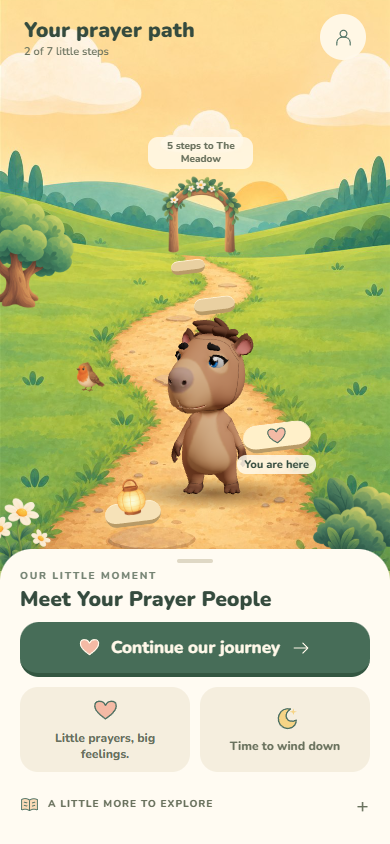
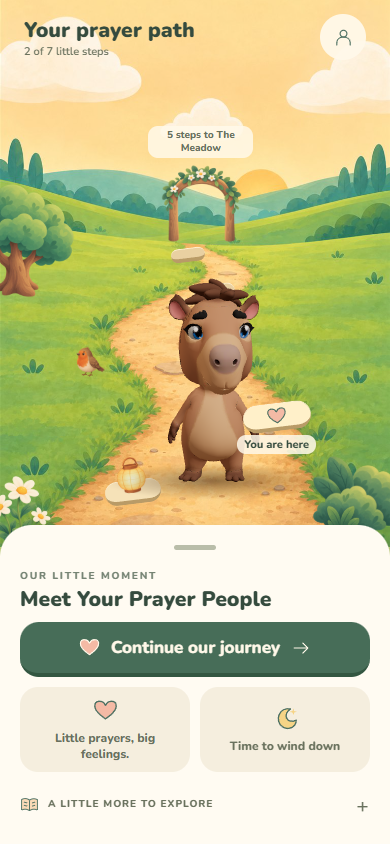
Let the trail panel collapse and remove body texture seams

Changed region(s): [[0.0, 0.0, 1.0, 0.6777], [0.0, 0.4929, 0.0308, 0.5237]]

diff --git a/apps/mobile/app/trail.tsx b/apps/mobile/app/trail.tsx
@@ -1,5 +1,5 @@
-import { useCallback, useEffect, useState } from "react";
-import { Pressable, ScrollView, StyleSheet, Text, View, useWindowDimensions, type LayoutChangeEvent } from "react-native";
+import { useCallback, useEffect, useMemo, useState } from "react";
+import { PanResponder, Pressable, ScrollView, StyleSheet, Text, View, useWindowDimensions, type LayoutChangeEvent } from "react-native";
 import { Link, Redirect, router } from "expo-router";
 import { useSafeAreaInsets } from "react-native-safe-area-context";
 import { interpolate } from "@capy/content";
@@ -38,16 +38,29 @@ function TrailLobby() {
   const { height } = useWindowDimensions();
   const [sheetHeight, setSheetHeight] = useState(290);
   const [exploring, setExploring] = useState(false);
+  const [collapsed, setCollapsed] = useState(false);
+  const sheetPan = useMemo(() => PanResponder.create({
+    onMoveShouldSetPanResponder: (_, g) => Math.abs(g.dy) > 8 && Math.abs(g.dy) > Math.abs(g.dx),
+    onPanResponderRelease: (_, g) => {
+      if (g.dy > 30) setCollapsed(true);
+      else if (g.dy < -30) setCollapsed(false);
+    },
+  }), []);
   const sceneHeight = Math.max(220, height - sheetHeight + 22);
   const onBottomLayout = useCallback((e: LayoutChangeEvent) => setSheetHeight(e.nativeEvent.layout.height), []);
   useEffect(() => {
     setStage({ sceneHeight });
-    avatar.send({ type: "viewport", top: sceneHeight * 0.51 / height, bottom: 1 - sceneHeight * 0.90 / height });
+    avatar.send({ type: "viewport", top: sceneHeight * 0.45 / height, bottom: 1 - sceneHeight * 0.92 / height });
   }, [avatar, height, sceneHeight, setStage]);
-  const view = journeyView(pack, kid.completed, { limit: PHASE_1_STOPS, windowSize: 4 });
+  const view = useMemo(() => journeyView(pack, kid.completed, { limit: PHASE_1_STOPS, windowSize: 4 }), [pack, kid.completed]);
   const curriculum = pack.lessons.filter((l) => l.routine === "any");
   const doneToday = !kid.freePlay && lessonDoneToday(kid.completed, new Set(curriculum.map((l) => l.id)));
   const world = pack.worlds.find((w) => w.id === view.next?.worldId) ?? pack.worlds[0];
+  useEffect(() => {
+    setStage({ underlay: <View style={[s.scenery, { height: sceneHeight }]} pointerEvents="none">
+      <JourneyTrail view={view} copy={copy} worldTitle={world?.title ?? ""} onContinue={() => {}} compact={sceneHeight < 400} layer="back" />
+    </View> });
+  }, [setStage, sceneHeight, view, copy, world]);
   const reduced = useReducedMotion();
   const arrival = pendingArrival(pack, kid.completed, kid.celebrated, { limit: PHASE_1_STOPS });
 
@@ -62,7 +75,7 @@ function TrailLobby() {
     avatar.send({ type: "mood", value: "calm" });
     avatar.send({ type: "walk", to: standX, from: standX }); // no distance to cover: he is placed, not walked
     avatar.send({ type: "idle" }); // greeting: facing the child, three-quarter only while he walks
-    return () => { setStage({ biome: "meadow", sceneHeight: undefined }); avatar.send({ type: "viewport", top: 0.1, bottom: 0.45 }); };
+    return () => { setStage({ biome: "meadow", sceneHeight: undefined, underlay: undefined }); avatar.send({ type: "viewport", top: 0.1, bottom: 0.45 }); };
     // eslint-disable-next-line react-hooks/exhaustive-deps
   }, [avatar]);
 
@@ -99,7 +112,7 @@ function TrailLobby() {
   return (
     <View style={s.root}>
       <View style={[s.scenery, { height: sceneHeight }]} pointerEvents="box-none">
-        <JourneyTrail view={view} copy={copy} worldTitle={world?.title ?? ""} onContinue={go} compact={sceneHeight < 400} />
+        <JourneyTrail view={view} copy={copy} worldTitle={world?.title ?? ""} onContinue={go} compact={sceneHeight < 400} layer="front" />
       </View>
       <View style={[s.top, { paddingTop: insets.top + 14 }]}>
         <View>
@@ -114,26 +127,32 @@ function TrailLobby() {
       <View style={s.stage} pointerEvents="none" />
 
       <View style={s.sheetWrap} onLayout={onBottomLayout} testID="trail-sheet">
+        <View {...sheetPan.panHandlers}>
+          <Pressable accessibilityRole="button" accessibilityLabel={collapsed ? (copy.trailExpand ?? copy.explore) : (copy.trailCollapse ?? copy.journey)} accessibilityState={{ expanded: !collapsed }} aria-expanded={!collapsed} onPress={() => setCollapsed(value => !value)} style={s.grab} testID="trail-sheet-handle">
+            <View style={s.handle} />
+          </Pressable>
+        </View>
         <ScrollView showsVerticalScrollIndicator={false} contentContainerStyle={[s.sheet, { paddingBottom: Math.max(insets.bottom, 18) }]}>
-          <View style={s.handle} />
           <Reveal>
+            {!collapsed && <>
             <Text style={s.eyebrow}>{copy.today}</Text>
             <Text style={s.title}>{!nextLesson ? copy.allDone : doneToday ? copy.completed : nextLesson.title}</Text>
+            </>}
             <Pressable onPress={go} accessibilityRole="button" style={({ pressed }) => [s.primary, pressed && s.pressed]}>
               <Icon name="heart" size={23} color="#FFF8E9" />
               <Text style={s.primaryText}>{doneToday || !nextLesson ? copy.moments : (copy.trailContinue ?? copy.start)}</Text>
               <Icon name="arrow" size={22} color="#FFF8E9" />
             </Pressable>
-            {doneToday && nextLesson ? <Text style={s.hint}>{copy.completedHint}</Text> : null}
+            {!collapsed && doneToday && nextLesson ? <Text style={s.hint}>{copy.completedHint}</Text> : null}
           </Reveal>
           {/* a quick prayer and bedtime stay one tap away, including after today's curriculum step */}
-          <Reveal delay={70}>
+          {!collapsed && <Reveal delay={70}>
             <View style={s.row}>
               <Quick icon="heart" label={copy.moments} onPress={() => router.push("/moments")} />
               <Quick icon="moon" label={copy.bedtime} onPress={() => router.push({ pathname: "/lesson/[id]", params: { id: pack.routines.bedtime.lessonId!, from: "trail" } })} />
             </View>
-          </Reveal>
-          <Reveal delay={130}>
+          </Reveal>}
+          {!collapsed && <Reveal delay={130}>
             <Pressable accessibilityRole="button" accessibilityLabel={copy.explore} accessibilityState={{ expanded: exploring }} aria-expanded={exploring} onPress={() => setExploring(value => !value)} style={s.exploreToggle}>
               <Icon name="book" size={19} /><Text style={s.exploreLabel}>{copy.explore}</Text>
               <Text style={s.chevron} accessibilityElementsHidden importantForAccessibility="no">{exploring ? "−" : "+"}</Text>
@@ -143,7 +162,7 @@ function TrailLobby() {
               <Quick icon="garden" label={copy.places} onPress={() => router.push("/places")} />
               <Quick icon="lantern" label={copy.pond} onPress={() => router.push("/pond")} />
             </View>}
-          </Reveal>
+          </Reveal>}
         </ScrollView>
       </View>
     </View>
@@ -169,7 +188,8 @@ const s = StyleSheet.create({
   stage: { flex: 1, minHeight: 170 },
   sheetWrap: { maxHeight: "52%", backgroundColor: "#FFFBF2", borderTopLeftRadius: 32, borderTopRightRadius: 32, overflow: "hidden", ...T.shadow },
   sheet: { paddingHorizontal: 20, gap: 10 },
-  handle: { width: 36, height: 4, borderRadius: 2, backgroundColor: "#DFD8C5", alignSelf: "center", marginTop: 10, marginBottom: -4 },
+  grab: { height: 44, alignItems: "center", justifyContent: "center" },
+  handle: { width: 42, height: 5, borderRadius: 3, backgroundColor: "#B9BDA9" },
   eyebrow: { fontFamily: T.font.bold, fontSize: 10, letterSpacing: 1.8, color: "#768474" },
   title: { fontFamily: T.font.black, fontSize: 21, lineHeight: 25, color: T.color.ink, marginTop: 4, marginBottom: 10 },
   primary: { minHeight: 55, borderRadius: 19, backgroundColor: "#476D58", flexDirection: "row", alignItems: "center", justifyContent: "center", gap: 10, padding: 12, borderBottomWidth: 4, borderBottomColor: "#335641" },

diff --git a/apps/mobile/src/avatar/AvatarView.web.tsx b/apps/mobile/src/avatar/AvatarView.web.tsx
@@ -1,4 +1,4 @@
-import { createContext, useCallback, useContext, useEffect, useMemo, useRef, useState, type PropsWithChildren } from "react";
+import { createContext, useCallback, useContext, useEffect, useMemo, useRef, useState, type PropsWithChildren, type ReactNode } from "react";
 import { ImageBackground, StyleSheet, View } from "react-native";
 import { AvatarEvents, type AvatarCommand, type AvatarEvent, type IAvatarRenderer } from "./IAvatarRenderer";
 import { backgroundFor, backgroundHeight } from "@/ui/backgrounds";
@@ -20,7 +20,7 @@ export function useAvatarReady() {
   useEffect(() => { setReady(avatar.ready); return avatar.onEvent(event => { if (event.type === "ready") setReady(true); }); }, [avatar]);
   return ready;
 }
-type Stage = { biome: string; dark: boolean; night: boolean; sceneHeight?: number };
+type Stage = { biome: string; dark: boolean; night: boolean; sceneHeight?: number; underlay?: ReactNode };
 const StageContext = createContext<{ stage: Stage; setStage: (stage: Partial<Stage>) => void } | null>(null);
 export function useStage() { const value = useContext(StageContext); if (!value) throw new Error("Missing AvatarProvider"); return value; }
 
@@ -41,6 +41,7 @@ export function AvatarProvider({ children }: PropsWithChildren) {
   return <AvatarContext.Provider value={renderer}><StageContext.Provider value={{ stage, setStage }}>
     <View style={StyleSheet.absoluteFill} pointerEvents="none"><ImageBackground source={backgroundFor(stage.biome, stage.night)} style={{ flex: 1, backgroundColor: stage.night ? "#34625F" : "#BDCE7D" }} imageStyle={{ width: "100%", height: stage.sceneHeight ?? backgroundHeight(stage.biome) }} resizeMode="cover">
       {stage.night && stage.biome !== "meadow" && <View style={[StyleSheet.absoluteFill, { backgroundColor: "#14205073" }]} />}
+      {stage.underlay}
       <iframe ref={frame} src="/avatar/index.html" title={getPack().companion.ui.brand} tabIndex={-1} aria-hidden="true" style={{ position: "absolute", inset: 0, width: "100%", height: "100%", border: 0, pointerEvents: "none" }} />
       {stage.dark && <View style={[StyleSheet.absoluteFill, { backgroundColor: "#0A081ED9" }]} />}
     </ImageBackground></View>{children}

diff --git a/apps/mobile/src/ui/JourneyTrail.tsx b/apps/mobile/src/ui/JourneyTrail.tsx
@@ -40,11 +40,12 @@ const spot = (i: number, n: number) => {
   };
 };
 
-export function JourneyTrail({ view, copy, worldTitle, onContinue, compact = false }: { view: JourneyView; copy: Copy; worldTitle: string; onContinue: () => void; compact?: boolean }) {
+export function JourneyTrail({ view, copy, worldTitle, onContinue, compact = false, layer = "all" }: { view: JourneyView; copy: Copy; worldTitle: string; onContinue: () => void; compact?: boolean; layer?: "all" | "back" | "front" }) {
   const reduced = useReducedMotion();
   const stones = view.window;
   return (
-    <View style={s.root} pointerEvents="box-none" testID="trail-scenery">
+    <View style={s.root} pointerEvents="box-none" testID={layer === "back" ? "trail-underlay" : "trail-scenery"}>
+      {layer !== "front" && <>
       <Image source={JOURNEY_ART["oak-tree"]} style={s.tree} resizeMode="contain" />
       <Image source={JOURNEY_ART["robin-friend"]} style={s.bird} resizeMode="contain" />
       {view.milestone && (
@@ -55,7 +56,9 @@ export function JourneyTrail({ view, copy, worldTitle, onContinue, compact = fal
           </Text>
         </View>
       )}
+      </>}
       {stones.map((node, i) => {
+        if (layer === "back" && node.state === "next" || layer === "front" && node.state !== "next") return null;
         const p = spot(i, stones.length);
         const size = Math.round(56 * p.scale);
         const label = interpolate(copy.trailStep ?? "", { n: String(node.index + 1) });
@@ -85,8 +88,10 @@ export function JourneyTrail({ view, copy, worldTitle, onContinue, compact = fal
           </View>
         );
       })}
-      <Image source={JOURNEY_ART["meadow-bush"]} style={s.bush} resizeMode="contain" />
-      <Image source={JOURNEY_ART["daisy-patch"]} style={s.flowers} resizeMode="contain" />
+      {layer !== "back" && <>
+        <Image source={JOURNEY_ART["meadow-bush"]} style={s.bush} resizeMode="contain" />
+        <Image source={JOURNEY_ART["daisy-patch"]} style={s.flowers} resizeMode="contain" />
+      </>}
     </View>
   );
 }

diff --git a/apps/mobile/src/avatar/AvatarView.tsx b/apps/mobile/src/avatar/AvatarView.tsx
@@ -1,4 +1,4 @@
-import { createContext, useCallback, useContext, useEffect, useMemo, useRef, useState, type PropsWithChildren } from "react";
+import { createContext, useCallback, useContext, useEffect, useMemo, useRef, useState, type PropsWithChildren, type ReactNode } from "react";
 import { ImageBackground, StyleSheet, Text, View } from "react-native";
 import { WebView, type WebViewMessageEvent } from "react-native-webview";
 import { Asset } from "expo-asset";
@@ -54,7 +54,7 @@ export function useAvatarReady() {
   return ready;
 }
 
-type StageState = { biome: string; dark: boolean; night: boolean; sceneHeight?: number };
+type StageState = { biome: string; dark: boolean; night: boolean; sceneHeight?: number; underlay?: ReactNode };
 const StageCtx = createContext<{ stage: StageState; setStage: (s: Partial<StageState>) => void } | null>(null);
 export const useStage = () => {
   const s = useContext(StageCtx);
@@ -110,6 +110,7 @@ export function AvatarProvider({ children }: PropsWithChildren) {
           <ImageBackground source={backgroundFor(stage.biome, stage.night)} style={styles.bg} imageStyle={{ width: "100%", height: stage.sceneHeight ?? backgroundHeight(stage.biome) }} resizeMode="cover">
             {stage.night && stage.biome !== "meadow" && !stage.dark && <View style={styles.nightTint} />}
             {stage.dark && <View style={styles.dim} />}
+            {stage.underlay}
             {uri && (
               <WebView
                 ref={webview}

diff --git a/packages/content/src/schema.ts b/packages/content/src/schema.ts
@@ -287,6 +287,7 @@ export const Companion = z.object({
     storyReady: z.string(), storyLocked: z.string(), allDone: z.string(), allDoneHint: z.string(), breatheIn: z.string(), breatheOut: z.string(),
     /** journey trail prototype (docs/journey-plan.md): one primary action, a stone label, and the milestone preview */
     trailContinue: z.string().optional(), trailStep: z.string().optional(), trailMilestone: z.string().optional(), trailHere: z.string().optional(),
+    trailExpand: z.string().optional(), trailCollapse: z.string().optional(),
   }),
   feelings: z.array(z.object({ id: ID, label: z.string(), icon: ID, lessonId: ID })).min(1),
   moments: z.array(z.object({ id: ID, title: z.string(), description: z.string(), icon: ID, lessonId: ID, minutes: z.number().int().min(1).max(5) })).min(1),

diff --git a/packages/avatar-web/src/CapyScene.tsx b/packages/avatar-web/src/CapyScene.tsx
@@ -45,6 +45,13 @@ function CapyModel({ gltf, onMessage, register, walk, halfWidth }: Omit<Props, "
         mat.vertexColors = false; // exporter kept COLOR_0; the albedo is the source of truth
         mat.roughness = 0.9;
         mat.metalness = 0;
+        // The body atlas has unpadded UV islands against black. Mip levels bleed that black
+        // into the visible seams; linear base-level sampling keeps its painted edges clean.
+        if (mat.name === "capy_body" && mat.map) {
+          mat.map.generateMipmaps = false;
+          mat.map.minFilter = THREE.LinearFilter;
+          mat.map.needsUpdate = true;
+        }
       }
     });
     // normalise: feet on y=0, 1.6 units tall (bind pose, skinning applied) so camera framing is stable

diff --git a/docs/trail-visual-pass.md b/docs/trail-visual-pass.md
@@ -3,10 +3,12 @@
 The trail lobby now frames the painted background, landmarks and Capy in the space above its action sheet. Previously, the background continued behind the sheet while the landmarks used a different coordinate frame, leaving little visible ground and placing the arch in the sky.
 
 - A trail-only scene height follows the measured sheet. The avatar receives viewport commands through the existing renderer interface. Leaving the trail clears this height and restores the usual framing.
-- Capy occupies a smaller foreground band. Existing trees, flowers, shrub and bird sprites frame the trail.
+- Capy occupies a foreground band with more visible scenery than the original lobby. The follow-up enlarges him by widening that band from 39% to 47% of the scene height.
 - Flat, warm stone surfaces replace circular markers. The next stop retains a 68 × 56 touch target; the primary button remains an alternative.
 - The arch ends at the distant path. Its caption moves beside it on short screens to avoid the header.
-- Explore expands the secondary destinations. Quick prayer and bedtime remain directly accessible. Labels wrap, and the three-column row no longer imposes a 92 px minimum on each item.
+- The 44 px sheet handle toggles between the open panel and a compact primary-action bar. A vertical swipe of more than 30 px on the handle selects the corresponding position. The gesture is confined to the handle, leaving content scrolling independent.
+- Explore expands the secondary destinations when the panel is open. Labels wrap, and the three-column row no longer imposes a 92 px minimum on each item.
+- Distant scenery and completed/future stones render behind the avatar; the next actionable stone and foreground plants remain in front. Enlarging Capy therefore does not paint distant stones across his face.
 - All child-facing copy still comes from the pack. No new imagery, recordings, currencies or progression rules were added.
 
 ## Verification
@@ -14,6 +16,7 @@ The trail lobby now frames the painted background, landmarks and Capy in the spa
 Tested in the real Expo web app with a fresh browser profile and synthetic progress:
 - 390 × 844, 320 × 700, and 320 × 568 portraits, including expanded destinations.
 - Expanded controls fit horizontally; the disclosure exposes its expanded state.
+- Handle taps and swipes in both directions change the panel position; the primary action stays available when collapsed.
 - Continue opens W1D3; returning restores the trail framing.
 - Reduced motion and an aborted avatar request both leave the route usable.
 - Opening a lesson and returning preserves completions and lanterns.
@@ -22,8 +25,14 @@ Also passed: 51 mobile tests, 24 content tests, mobile typecheck, content valida
 
 Run the app with `pnpm --filter @capy/mobile start --web --port 8086` after building avatar-web, then enter the prototype from Parent Corner.
 
+## Body texture seams
+
+The shipped body atlas has colored UV islands directly adjacent to black unused pixels. In the same frozen pose, removing the body texture removed the fine seams, and restoring it with base-level linear sampling also removed them. The body does not receive dynamic shadows. This isolates texture filtering as the source of these visible lines, rather than a bone or shadow issue.
+
+The renderer now disables mip generation and uses LinearFilter for the body map only. Other maps, painted colors, geometry and animation data are unchanged. This is a runtime sampling fix; a future asset-pipeline improvement would add atlas gutters before restoring mipmaps. Device testing should check texture stability during motion.
+
+![Collapsed panel](screenshots/trail-panel-collapsed.png)
 ![Trail lobby](screenshots/trail-polish-390.png)
 ![Compact portrait](screenshots/trail-polish-compact.png)
 ![Expanded destinations](screenshots/trail-polish-expanded.png)
 ![Actual avatar preview](screenshots/trail-polish-avatar.png)
-
